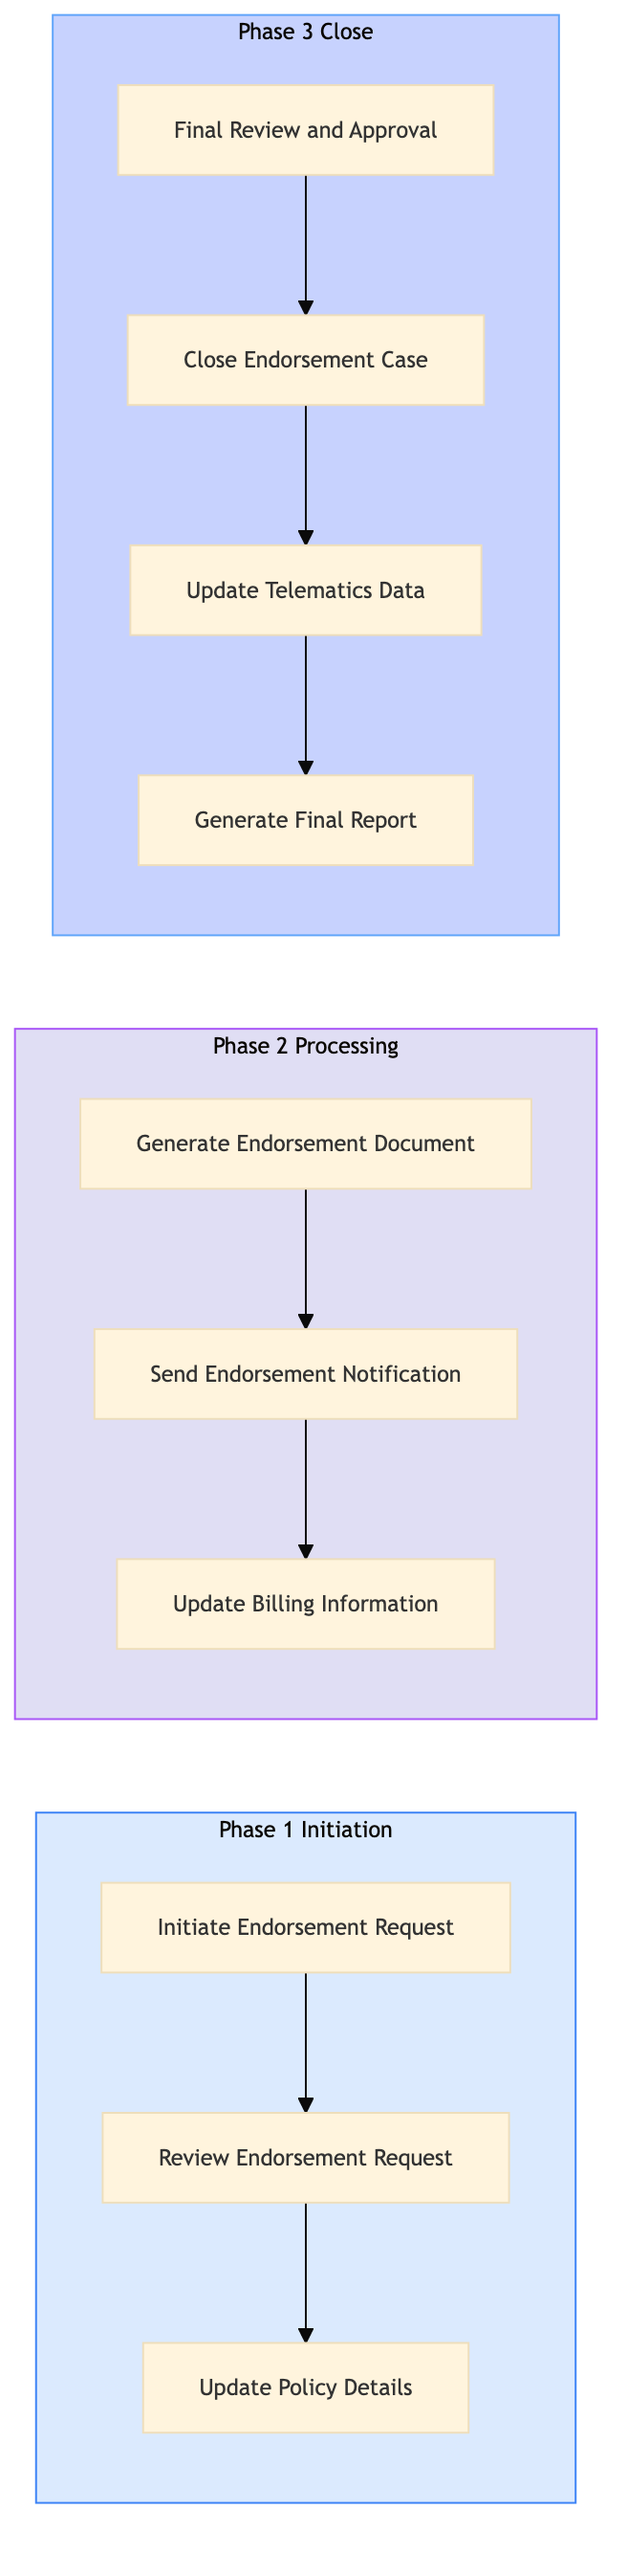
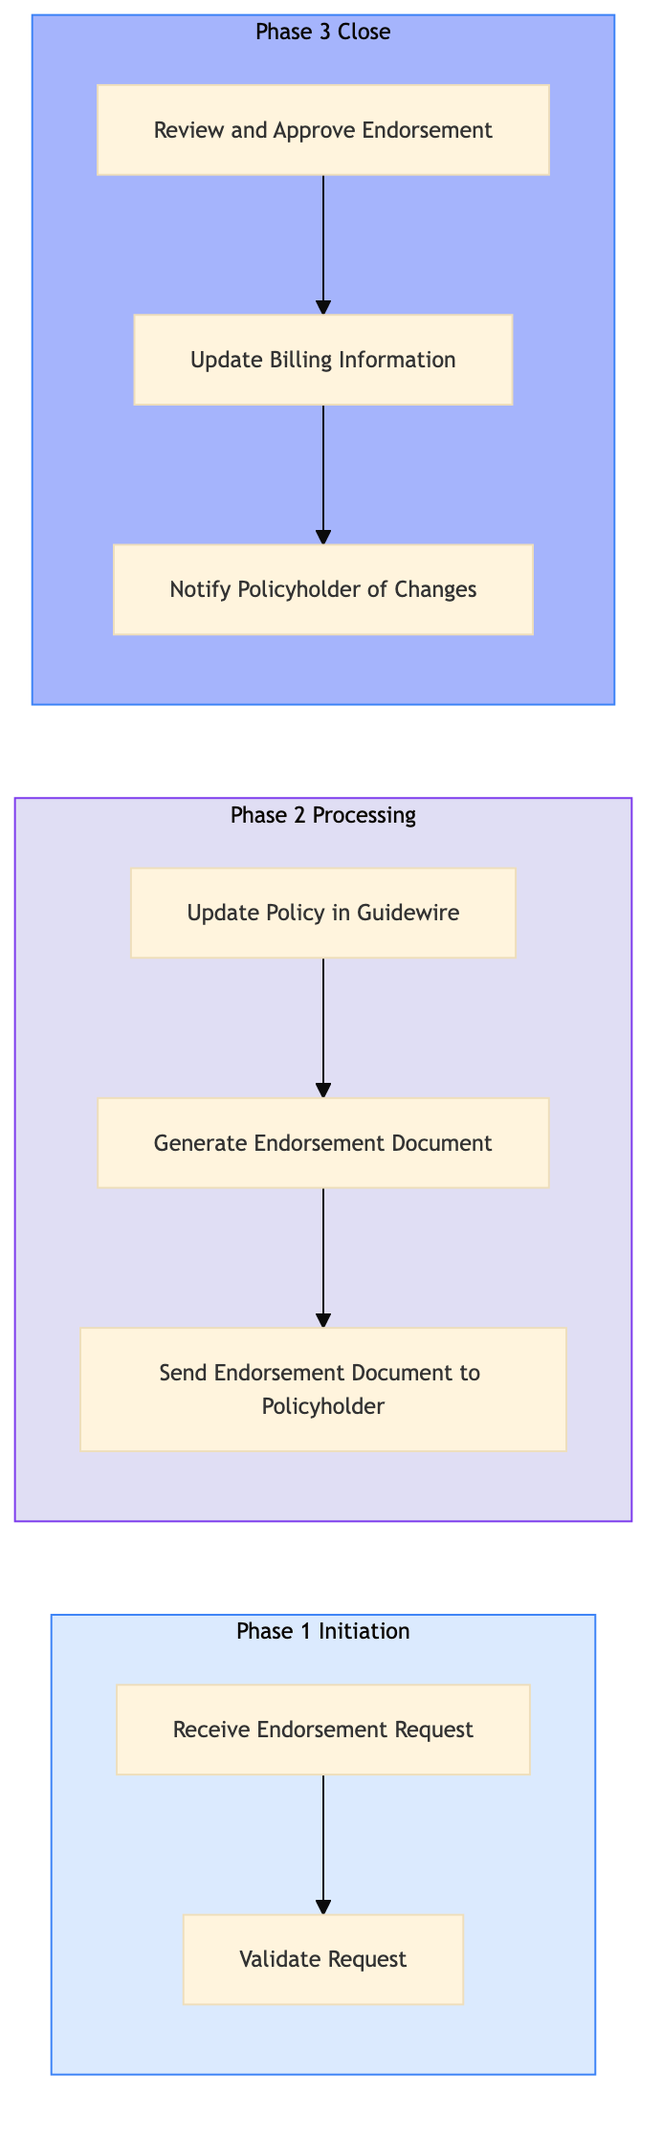
feat: add AAA-IN-PO-02 — Policy Endorsement and Mid-Term Change Processing

diff --git a/aaa-insurance/policy-administration/aaa-in-po-02.html b/aaa-insurance/policy-administration/aaa-in-po-02.html
@@ -23,40 +23,16 @@
     <div class="nav-l2-group">
       <a class="nav-l2-title" href="../../shared-membership/membership-enrolment/index.html">Membership Enrolment & Sales</a>
       <div class="nav-l3-list">
-        <a class="nav-l3" href="../../shared-membership/membership-enrolment/shared-mb-en-01.html">SHARED-MB-EN-01 &mdash; New Member Walk-In Enrolment (Branch)</a>
-        <a class="nav-l3" href="../../shared-membership/membership-enrolment/shared-mb-en-02.html">SHARED-MB-EN-02 &mdash; Online Membership Self-Enrolment (Web/Ap</a>
-        <a class="nav-l3" href="../../shared-membership/membership-enrolment/shared-mb-en-03.html">SHARED-MB-EN-03 &mdash; Phone Enrolment via Contact Centre</a>
-        <a class="nav-l3" href="../../shared-membership/membership-enrolment/shared-mb-en-04.html">SHARED-MB-EN-04 &mdash; Affiliate and Employer Group Enrolment</a>
-        <a class="nav-l3" href="../../shared-membership/membership-enrolment/shared-mb-en-05.html">SHARED-MB-EN-05 &mdash; Membership Tier Selection and Upsell</a>
-        <a class="nav-l3" href="../../shared-membership/membership-enrolment/shared-mb-en-06.html">SHARED-MB-EN-06 &mdash; Payment Processing and First-Year Billin</a>
-        <a class="nav-l3" href="../../shared-membership/membership-enrolment/shared-mb-en-07.html">SHARED-MB-EN-07 &mdash; Welcome Kit and Digital Card Issuance</a>
-        <a class="nav-l3" href="../../shared-membership/membership-enrolment/shared-mb-en-08.html">SHARED-MB-EN-08 &mdash; Duplicate Member Detection and Merge</a>
       </div>
     </div>
     <div class="nav-l2-group">
       <a class="nav-l2-title" href="../../shared-membership/membership-renewal/index.html">Membership Renewal & Retention</a>
       <div class="nav-l3-list">
-        <a class="nav-l3" href="../../shared-membership/membership-renewal/shared-mb-rn-01.html">SHARED-MB-RN-01 &mdash; Annual Renewal Notice Generation and Dis</a>
-        <a class="nav-l3" href="../../shared-membership/membership-renewal/shared-mb-rn-02.html">SHARED-MB-RN-02 &mdash; Auto-Renewal Processing (Credit Card on </a>
-        <a class="nav-l3" href="../../shared-membership/membership-renewal/shared-mb-rn-03.html">SHARED-MB-RN-03 &mdash; Lapsed Member Reinstatement Campaign</a>
-        <a class="nav-l3" href="../../shared-membership/membership-renewal/shared-mb-rn-04.html">SHARED-MB-RN-04 &mdash; Membership Upgrade and Tier Change Proce</a>
-        <a class="nav-l3" href="../../shared-membership/membership-renewal/shared-mb-rn-05.html">SHARED-MB-RN-05 &mdash; Associate and Household Member Add-On Pr</a>
-        <a class="nav-l3" href="../../shared-membership/membership-renewal/shared-mb-rn-06.html">SHARED-MB-RN-06 &mdash; Cancellation Request Handling and Save O</a>
-        <a class="nav-l3" href="../../shared-membership/membership-renewal/shared-mb-rn-07.html">SHARED-MB-RN-07 &mdash; Renewal Rate Review and Pricing Update</a>
-        <a class="nav-l3" href="../../shared-membership/membership-renewal/shared-mb-rn-08.html">SHARED-MB-RN-08 &mdash; Membership Winback Campaign (12-36 Month</a>
       </div>
     </div>
     <div class="nav-l2-group">
       <a class="nav-l2-title" href="../../shared-membership/member-services/index.html">Member Services & Benefits</a>
       <div class="nav-l3-list">
-        <a class="nav-l3" href="../../shared-membership/member-services/shared-mb-sv-01.html">SHARED-MB-SV-01 &mdash; Member Discount Partner Redemption</a>
-        <a class="nav-l3" href="../../shared-membership/member-services/shared-mb-sv-02.html">SHARED-MB-SV-02 &mdash; Passport Photo Service Delivery (Branch)</a>
-        <a class="nav-l3" href="../../shared-membership/member-services/shared-mb-sv-03.html">SHARED-MB-SV-03 &mdash; International Driving Permit (IDP) Proce</a>
-        <a class="nav-l3" href="../../shared-membership/member-services/shared-mb-sv-04.html">SHARED-MB-SV-04 &mdash; Notary and Document Authentication Servi</a>
-        <a class="nav-l3" href="../../shared-membership/member-services/shared-mb-sv-05.html">SHARED-MB-SV-05 &mdash; Member Portal Profile and Preferences Ma</a>
-        <a class="nav-l3" href="../../shared-membership/member-services/shared-mb-sv-06.html">SHARED-MB-SV-06 &mdash; Lost and Stolen Membership Card Replacem</a>
-        <a class="nav-l3" href="../../shared-membership/member-services/shared-mb-sv-07.html">SHARED-MB-SV-07 &mdash; Member Data Privacy Request (CCPA and PI</a>
-        <a class="nav-l3" href="../../shared-membership/member-services/shared-mb-sv-08.html">SHARED-MB-SV-08 &mdash; Member Satisfaction Survey and NPS Track</a>
       </div>
     </div>
   </div>
@@ -289,7 +265,7 @@
           <span class="pid-badge org-badge-aaa">AAA</span>
           AAA-IN-PO-02 &mdash; Policy Endorsement and Mid-Term Change Processing
         </h1>
-        <p>This process handles policy endorsements and mid-term changes for AAA Northeast. It ensures that all necessary updates are made to policies in compliance with state regulations, using Guidewire Cloud for processing.</p>
+        <p>This process handles the endorsement and mid-term changes for policies managed by AAA Northeast. It ensures that policy updates are accurately reflected in the system, maintaining compliance with state regulations.</p>
       </div>
 
       <!-- BPMN Diagram -->
@@ -315,10 +291,10 @@
             <tr><th>L1 Domain</th><td>AAA Insurance</td></tr>
             <tr><th>L2 Process</th><td>Policy Administration</td></tr>
             <tr><th>L3 Name</th><td>Policy Endorsement and Mid-Term Change Processing</td></tr>
-            <tr><th>Trigger</th><td>A request from a licensed insurance agent or member for a policy endorsement or mid-term change.</td></tr>
-            <tr><th>Outcome</th><td>Successful completion results in updated policy records, notifications sent to the member, and accurate billing reflecting any changes.</td></tr>
-            <tr><th>Org Notes</th><td>AAA Northeast may have specific state DOI requirements that differ from other AAA regions. Additionally, the use of Guidewire Cloud is more integrated compared to CAA's use of various portals and systems.</td></tr>
-            <tr><th>Systems</th><td><span class="sys-tag guidewire">Guidewire PolicyCenter</span> <span class="sys-tag guidewire">Guidewire BillingCenter</span> <span class="sys-tag salesforce">Salesforce</span> <span class="sys-tag driveassist">DriveAssist telematics</span></td></tr>
+            <tr><th>Trigger</th><td>A request for a policy endorsement or mid-term change is initiated by a Licensed Insurance Agent or Policyholder through the AAA App or Salesforce platform.</td></tr>
+            <tr><th>Outcome</th><td>Successful completion of this process results in updated policy details being recorded in Guidewire Cloud, ensuring accurate billing and claim processing.</td></tr>
+            <tr><th>Org Notes</th><td>AAA Northeast operates under specific state regulations and uses cloud-based systems for policy management, differing from CAA's on-premises setup. The use of Salesforce for customer interaction adds an additional layer of automation and data capture.</td></tr>
+            <tr><th>Systems</th><td><span class="sys-tag salesforce">Salesforce</span> <span class="sys-tag guidewire">Guidewire PolicyCenter</span> <span class="sys-tag guidewire">Guidewire BillingCenter</span> <span class="sys-tag sabre">Sabre GDS</span></td></tr>
           </table>
         </div>
       </div>
@@ -339,121 +315,97 @@
               <tbody>
         <tr>
           <td class="step-num">1.1</td>
-          <td>Initiate Endorsement Request</td>
+          <td>Receive Endorsement Request</td>
           <td>Licensed Insurance Agent</td>
-          <td><span class="sys-tag guidewire">Guidewire PolicyCenter</span></td>
-          <td>Member request form</td>
-          <td>Endorsement case created in Guidewire</td>
-          <td>Time to create endorsement case < 15 minutes</td>
-          <td>Handling complex endorsements with multiple changes</td>
+          <td><span class="sys-tag salesforce">Salesforce</span></td>
+          <td>Policyholder request via AAA App or Salesforce</td>
+          <td>Endorsement request ticket in Salesforce</td>
+          <td>Request received within 1 hour</td>
+          <td>Delays in receiving requests due to system downtime</td>
           <td>N</td>
           <td><span class="exception-y">Y</span></td>
         </tr>
         <tr>
           <td class="step-num">1.2</td>
-          <td>Review Endorsement Request</td>
-          <td>Underwriting Analyst</td>
+          <td>Validate Request</td>
+          <td>Policy Administrator</td>
           <td><span class="sys-tag guidewire">Guidewire PolicyCenter</span></td>
-          <td>Endorsement case</td>
-          <td>Approved or rejected endorsement request</td>
-          <td>95% approval rate within 24 hours</td>
-          <td>Inconsistent underwriting guidelines</td>
+          <td>Endorsement request ticket from Salesforce</td>
+          <td>Validation report</td>
+          <td>Validation completed within 30 minutes</td>
+          <td>Complex validation rules causing delays</td>
           <td><span class="decision-y">Y</span></td>
           <td>N</td>
         </tr>
         <tr>
-          <td class="step-num">1.3</td>
-          <td>Update Policy Details</td>
+          <td class="step-num">2.1</td>
+          <td>Update Policy in Guidewire</td>
           <td>Policy Administrator</td>
           <td><span class="sys-tag guidewire">Guidewire PolicyCenter</span></td>
-          <td>Approved endorsement request</td>
-          <td>Updated policy record in Guidewire</td>
-          <td>98% accuracy of updated policy details</td>
-          <td>Data entry errors</td>
-          <td>N</td>
-          <td><span class="exception-y">Y</span></td>
-        </tr>
-        <tr>
-          <td class="step-num">2.1</td>
-          <td>Generate Endorsement Document</td>
-          <td>Document Specialist</td>
-          <td><span class="sys-tag guidewire">Guidewire PolicyCenter</span></td>
-          <td>Updated policy record</td>
-          <td>Endorsement document</td>
-          <td>Document generation time < 5 minutes</td>
-          <td>Complex document formatting</td>
+          <td>Validation report</td>
+          <td>Updated policy record in Guidewire Cloud</td>
+          <td>Policy update completed within 2 hours</td>
+          <td>System integration issues between Salesforce and Guidewire</td>
           <td>N</td>
           <td><span class="exception-y">Y</span></td>
         </tr>
         <tr>
           <td class="step-num">2.2</td>
-          <td>Send Endorsement Notification</td>
-          <td>Customer Service Representative</td>
-          <td><span class="sys-tag salesforce">Salesforce</span></td>
+          <td>Generate Endorsement Document</td>
+          <td>Policy Administrator</td>
+          <td><span class="sys-tag guidewire">Guidewire PolicyCenter</span></td>
+          <td>Updated policy record</td>
           <td>Endorsement document</td>
-          <td>Notification sent to member</td>
-          <td>90% notification delivery rate within 1 hour</td>
-          <td>Email deliverability issues</td>
+          <td>Document generated within 30 minutes</td>
+          <td>Inconsistent document formatting</td>
           <td>N</td>
           <td><span class="exception-y">Y</span></td>
         </tr>
         <tr>
           <td class="step-num">2.3</td>
-          <td>Update Billing Information</td>
-          <td>Billing Specialist</td>
-          <td><span class="sys-tag guidewire">Guidewire BillingCenter</span></td>
-          <td>Updated policy record</td>
-          <td>Updated billing information in Guidewire</td>
-          <td>95% accuracy of updated billing details</td>
-          <td>Incorrect billing calculations</td>
+          <td>Send Endorsement Document to Policyholder</td>
+          <td>Licensed Insurance Agent</td>
+          <td><span class="sys-tag salesforce">Salesforce</span></td>
+          <td>Endorsement document</td>
+          <td>Acknowledgment from policyholder</td>
+          <td>Document sent within 1 hour</td>
+          <td>Low response rates due to outdated contact information</td>
           <td>N</td>
           <td><span class="exception-y">Y</span></td>
         </tr>
         <tr>
           <td class="step-num">3.1</td>
-          <td>Final Review and Approval</td>
-          <td>Manager, Policy Administration</td>
+          <td>Review and Approve Endorsement</td>
+          <td>Underwriting Manager</td>
           <td><span class="sys-tag guidewire">Guidewire PolicyCenter</span></td>
-          <td>Updated policy record and billing information</td>
-          <td>Final approval of endorsement</td>
-          <td>90% final approval rate within 24 hours</td>
-          <td>Overlooked discrepancies in endorsements</td>
+          <td>Endorsement document</td>
+          <td>Approval status</td>
+          <td>Review completed within 24 hours</td>
+          <td>High volume of endorsements requiring manual review</td>
           <td><span class="decision-y">Y</span></td>
           <td>N</td>
         </tr>
         <tr>
           <td class="step-num">3.2</td>
-          <td>Close Endorsement Case</td>
-          <td>Policy Administrator</td>
-          <td><span class="sys-tag guidewire">Guidewire PolicyCenter</span></td>
-          <td>Final approval</td>
-          <td>Closed endorsement case in Guidewire</td>
-          <td>100% closure rate within 24 hours of final approval</td>
-          <td>Delayed case closures</td>
+          <td>Update Billing Information</td>
+          <td>Billing Administrator</td>
+          <td><span class="sys-tag guidewire">Guidewire BillingCenter</span></td>
+          <td>Approval status</td>
+          <td>Updated billing record</td>
+          <td>Billing update completed within 1 hour</td>
+          <td>Inaccurate billing calculations due to system errors</td>
           <td>N</td>
           <td><span class="exception-y">Y</span></td>
         </tr>
         <tr>
           <td class="step-num">3.3</td>
-          <td>Update Telematics Data</td>
-          <td>Telematics Specialist</td>
-          <td><span class="sys-tag driveassist">DriveAssist telematics</span></td>
-          <td>Updated policy record</td>
-          <td>Updated telematics data in DriveAssist</td>
-          <td>95% accuracy of updated telematics data</td>
-          <td>Data synchronization issues</td>
-          <td>N</td>
-          <td><span class="exception-y">Y</span></td>
-        </tr>
-        <tr>
-          <td class="step-num">3.4</td>
-          <td>Generate Final Report</td>
-          <td>Reporting Analyst</td>
-          <td><span class="sys-tag guidewire">Guidewire PolicyCenter</span></td>
-          <td>Closed endorsement case</td>
-          <td>Endorsement processing report</td>
-          <td>90% timely generation of reports</td>
-          <td>Report generation delays</td>
+          <td>Notify Policyholder of Changes</td>
+          <td>Licensed Insurance Agent</td>
+          <td><span class="sys-tag salesforce">Salesforce</span></td>
+          <td>Updated billing record</td>
+          <td>Confirmation from policyholder</td>
+          <td>Notification sent within 1 hour</td>
+          <td>Policyholders not receiving notifications due to spam filters</td>
           <td>N</td>
           <td><span class="exception-y">Y</span></td>
         </tr>
@@ -468,9 +420,9 @@
         <div class="card-header">&#x1F4CA; KPIs &amp; Risk Register</div>
         <div class="card-body">
           <p class="mb-8"><strong>KPIs</strong></p>
-          <div class="kpi-list mb-8"><span class="kpi-pill">Time to create endorsement case < 15 minutes</span> <span class="kpi-pill">95% approval rate within 24 hours</span> <span class="kpi-pill">98% accuracy of updated policy details</span> <span class="kpi-pill">Document generation time < 5 minutes</span> <span class="kpi-pill">90% notification delivery rate within 1 hour</span></div>
+          <div class="kpi-list mb-8"><span class="kpi-pill">Request received within 1 hour</span> <span class="kpi-pill">Validation completed within 30 minutes</span> <span class="kpi-pill">Policy update completed within 2 hours</span> <span class="kpi-pill">Document generated within 30 minutes</span> <span class="kpi-pill">Review completed within 24 hours</span> <span class="kpi-pill">Billing update completed within 1 hour</span> <span class="kpi-pill">Notification sent within 1 hour</span></div>
           <p class="mb-8" style="margin-top:16px"><strong>Key Risks</strong></p>
-          <div class="kpi-list"><span class="risk-pill">Inconsistent underwriting guidelines leading to approval delays</span> <span class="risk-pill">Data entry errors causing policy discrepancies</span> <span class="risk-pill">Email deliverability issues affecting member notifications</span> <span class="risk-pill">Incorrect billing calculations resulting in financial errors</span> <span class="risk-pill">Data synchronization issues between systems impacting telematics data</span></div>
+          <div class="kpi-list"><span class="risk-pill">System downtime affecting request reception</span> <span class="risk-pill">Complex validation rules causing delays</span> <span class="risk-pill">Integration issues between Salesforce and Guidewire</span> <span class="risk-pill">Inconsistent document formatting</span> <span class="risk-pill">Low response rates due to outdated contact information</span> <span class="risk-pill">High volume of endorsements requiring manual review</span> <span class="risk-pill">Inaccurate billing calculations due to system errors</span> <span class="risk-pill">Policyholders not receiving notifications due to spam filters</span></div>
         </div>
       </div>
 

diff --git a/aaa-insurance/policy-administration/index.html b/aaa-insurance/policy-administration/index.html
@@ -56,6 +56,7 @@
     <div class="nav-l2-group open">
       <a class="nav-l2-title" href="../../aaa-insurance/policy-administration/index.html">Policy Administration</a>
       <div class="nav-l3-list">
+        <a class="nav-l3" href="../../aaa-insurance/policy-administration/aaa-in-po-01.html">AAA-IN-PO-01 &mdash; New Policy Issuance and Document Generat</a>
       </div>
     </div>
     <div class="nav-l2-group">
@@ -257,14 +258,14 @@
           <a href="../index.html">AAA Insurance</a>
         </div>
         <h1>🛡 Policy Administration</h1>
-        <p>0 of 8 processes complete</p>
+        <p>1 of 8 processes complete</p>
       </div>
       <div class="card">
         <div class="card-header">Process List</div>
         <div class="card-body">
           <table class="l4-table" style="min-width:500px">
             <thead><tr><th>PID</th><th>L3 Process Name</th><th>Status</th></tr></thead>
-            <tbody><tr><td>AAA-IN-PO-01</td><td>New Policy Issuance and Document Generation</td><td><span style="color:#94a3b8">&#x23F3; Queued</span></td></tr>
+            <tbody><tr><td><a href="aaa-in-po-01.html">AAA-IN-PO-01</a></td><td>New Policy Issuance and Document Generation</td><td><span style="color:#16a34a;font-weight:700">&#x2705; Complete</span></td></tr>
 <tr><td>AAA-IN-PO-02</td><td>Policy Endorsement and Mid-Term Change Processing</td><td><span style="color:#94a3b8">&#x23F3; Queued</span></td></tr>
 <tr><td>AAA-IN-PO-03</td><td>Policy Renewal Processing and Rate Refresh</td><td><span style="color:#94a3b8">&#x23F3; Queued</span></td></tr>
 <tr><td>AAA-IN-PO-04</td><td>Non-Renewal and Cancellation Processing</td><td><span style="color:#94a3b8">&#x23F3; Queued</span></td></tr>

diff --git a/index.html b/index.html
@@ -56,6 +56,7 @@
     <div class="nav-l2-group">
       <a class="nav-l2-title" href="aaa-insurance/policy-administration/index.html">Policy Administration</a>
       <div class="nav-l3-list">
+        <a class="nav-l3" href="aaa-insurance/policy-administration/aaa-in-po-01.html">AAA-IN-PO-01 &mdash; New Policy Issuance and Document Generat</a>
       </div>
     </div>
     <div class="nav-l2-group">
@@ -257,9 +258,9 @@
       </div>
 
       <div class="stats-bar">
-        <div class="stat-card"><div class="stat-num">10</div><div class="stat-label">Processes Complete</div></div>
+        <div class="stat-card"><div class="stat-num">11</div><div class="stat-label">Processes Complete</div></div>
         <div class="stat-card"><div class="stat-num">268</div><div class="stat-label">Total Processes</div></div>
-        <div class="stat-card"><div class="stat-num">10</div><div class="stat-label">AAA Complete</div></div>
+        <div class="stat-card"><div class="stat-num">11</div><div class="stat-label">AAA Complete</div></div>
         <div class="stat-card"><div class="stat-num caa-red">0</div><div class="stat-label">CAA Complete</div></div>
         <div class="stat-card"><div class="stat-num">0</div><div class="stat-label">Shared Complete</div></div>
       </div>
@@ -279,7 +280,7 @@
         <span class="nav-org-dot aaa" style="display:inline-block;margin-right:4px"></span>
         AAA
       </p>
-      <p class="card-count">10 / 34 processes complete</p>
+      <p class="card-count">11 / 34 processes complete</p>
     </div>
     <div class="domain-card org-caa">
       <h3><a href="caa-insurance/index.html">🍁 CAA Insurance (Ontario)</a></h3>

diff --git a/aaa-insurance/index.html b/aaa-insurance/index.html
@@ -56,6 +56,7 @@
     <div class="nav-l2-group">
       <a class="nav-l2-title" href="../aaa-insurance/policy-administration/index.html">Policy Administration</a>
       <div class="nav-l3-list">
+        <a class="nav-l3" href="../aaa-insurance/policy-administration/aaa-in-po-01.html">AAA-IN-PO-01 &mdash; New Policy Issuance and Document Generat</a>
       </div>
     </div>
     <div class="nav-l2-group">
@@ -254,7 +255,7 @@
       <div class="page-header">
         <div class="breadcrumb"><a href="../index.html">Home</a></div>
         <h1>🛡 AAA Insurance</h1>
-        <p>10 of 34 processes complete across 4 process groups</p>
+        <p>11 of 34 processes complete across 4 process groups</p>
       </div>
       <div class="domain-grid">    <div class="domain-card org-aaa">
       <h3><a href="insurance-quoting/index.html">Quoting & Underwriting</a></h3>
@@ -262,7 +263,7 @@
     </div>
     <div class="domain-card org-aaa">
       <h3><a href="policy-administration/index.html">Policy Administration</a></h3>
-      <p class="card-meta">0/8 processes complete</p>
+      <p class="card-meta">1/8 processes complete</p>
     </div>
     <div class="domain-card org-aaa">
       <h3><a href="insurance-billing/index.html">Billing & Premium Management</a></h3>
